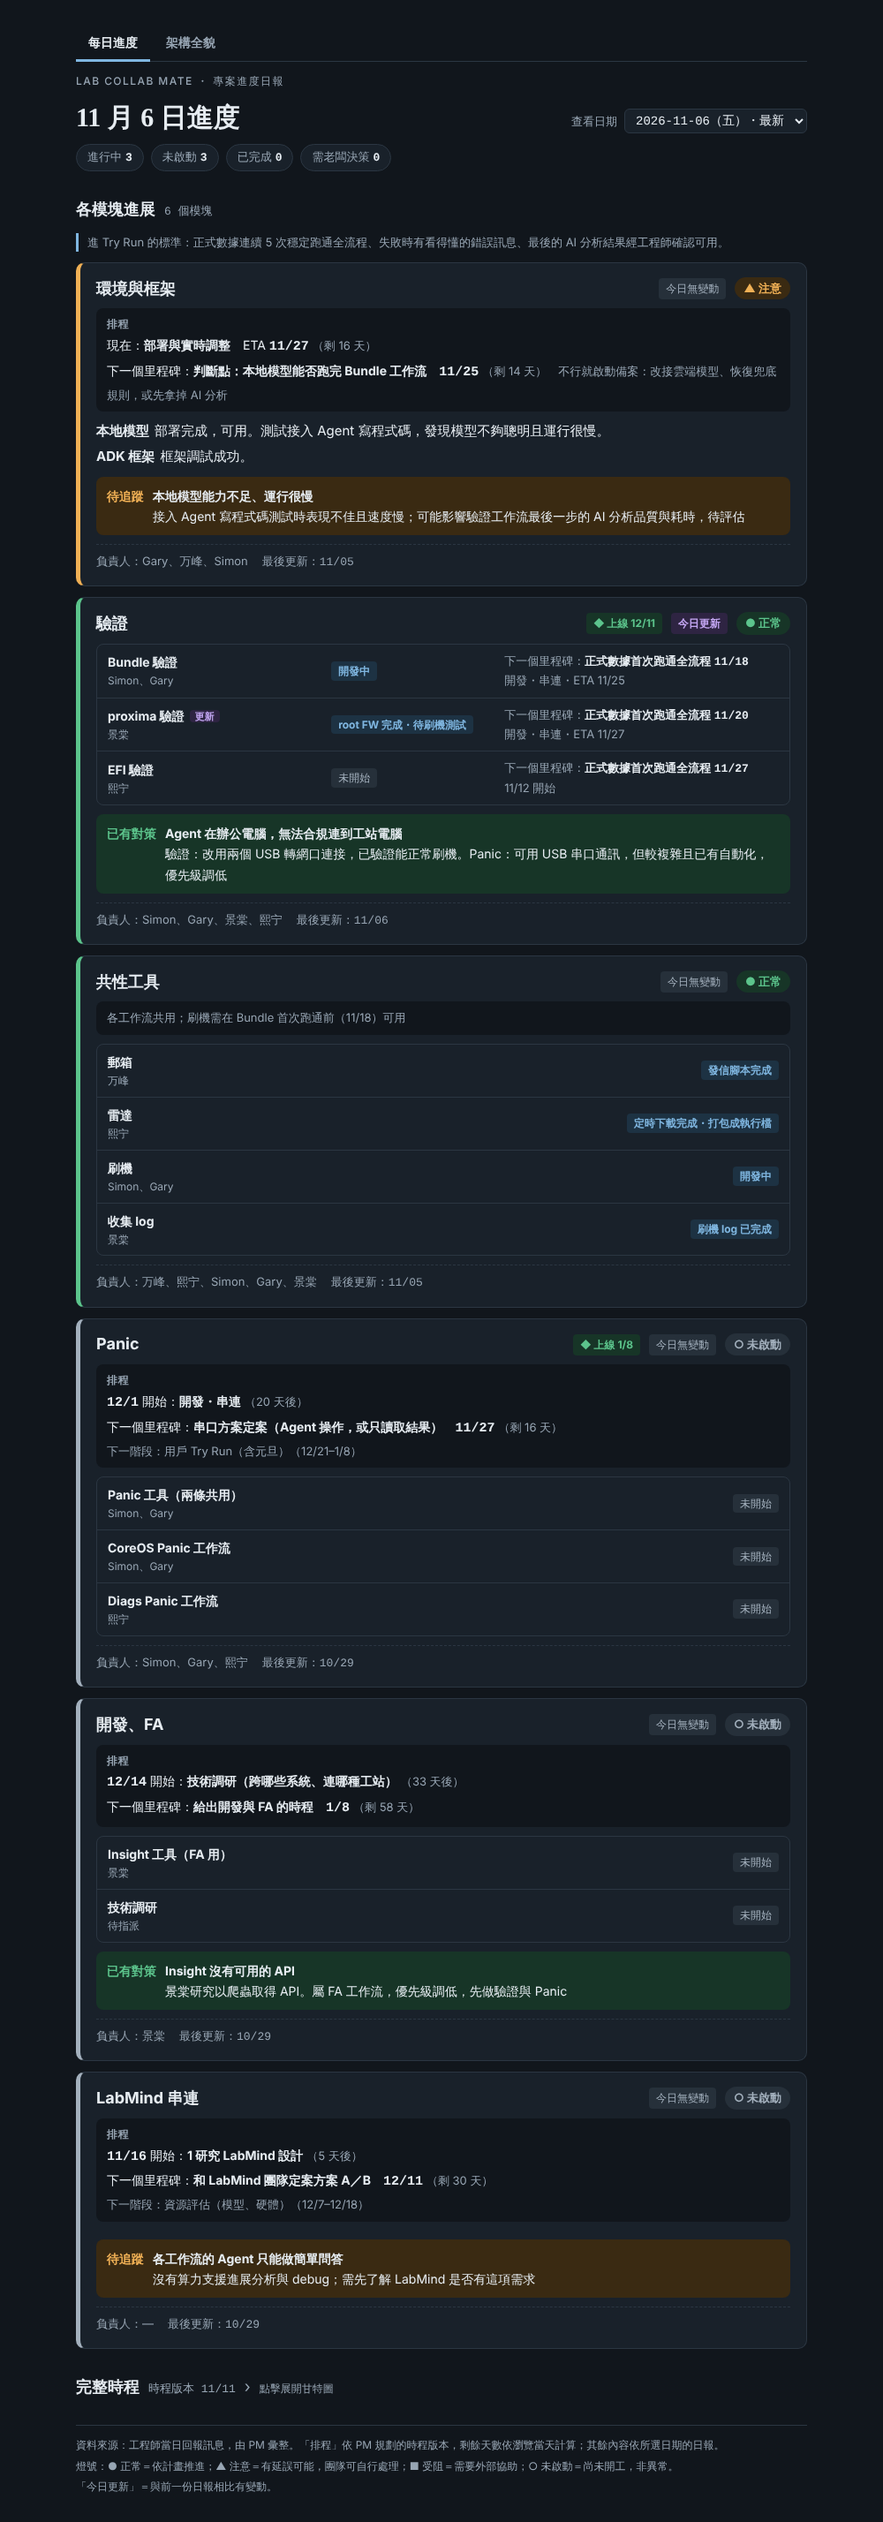
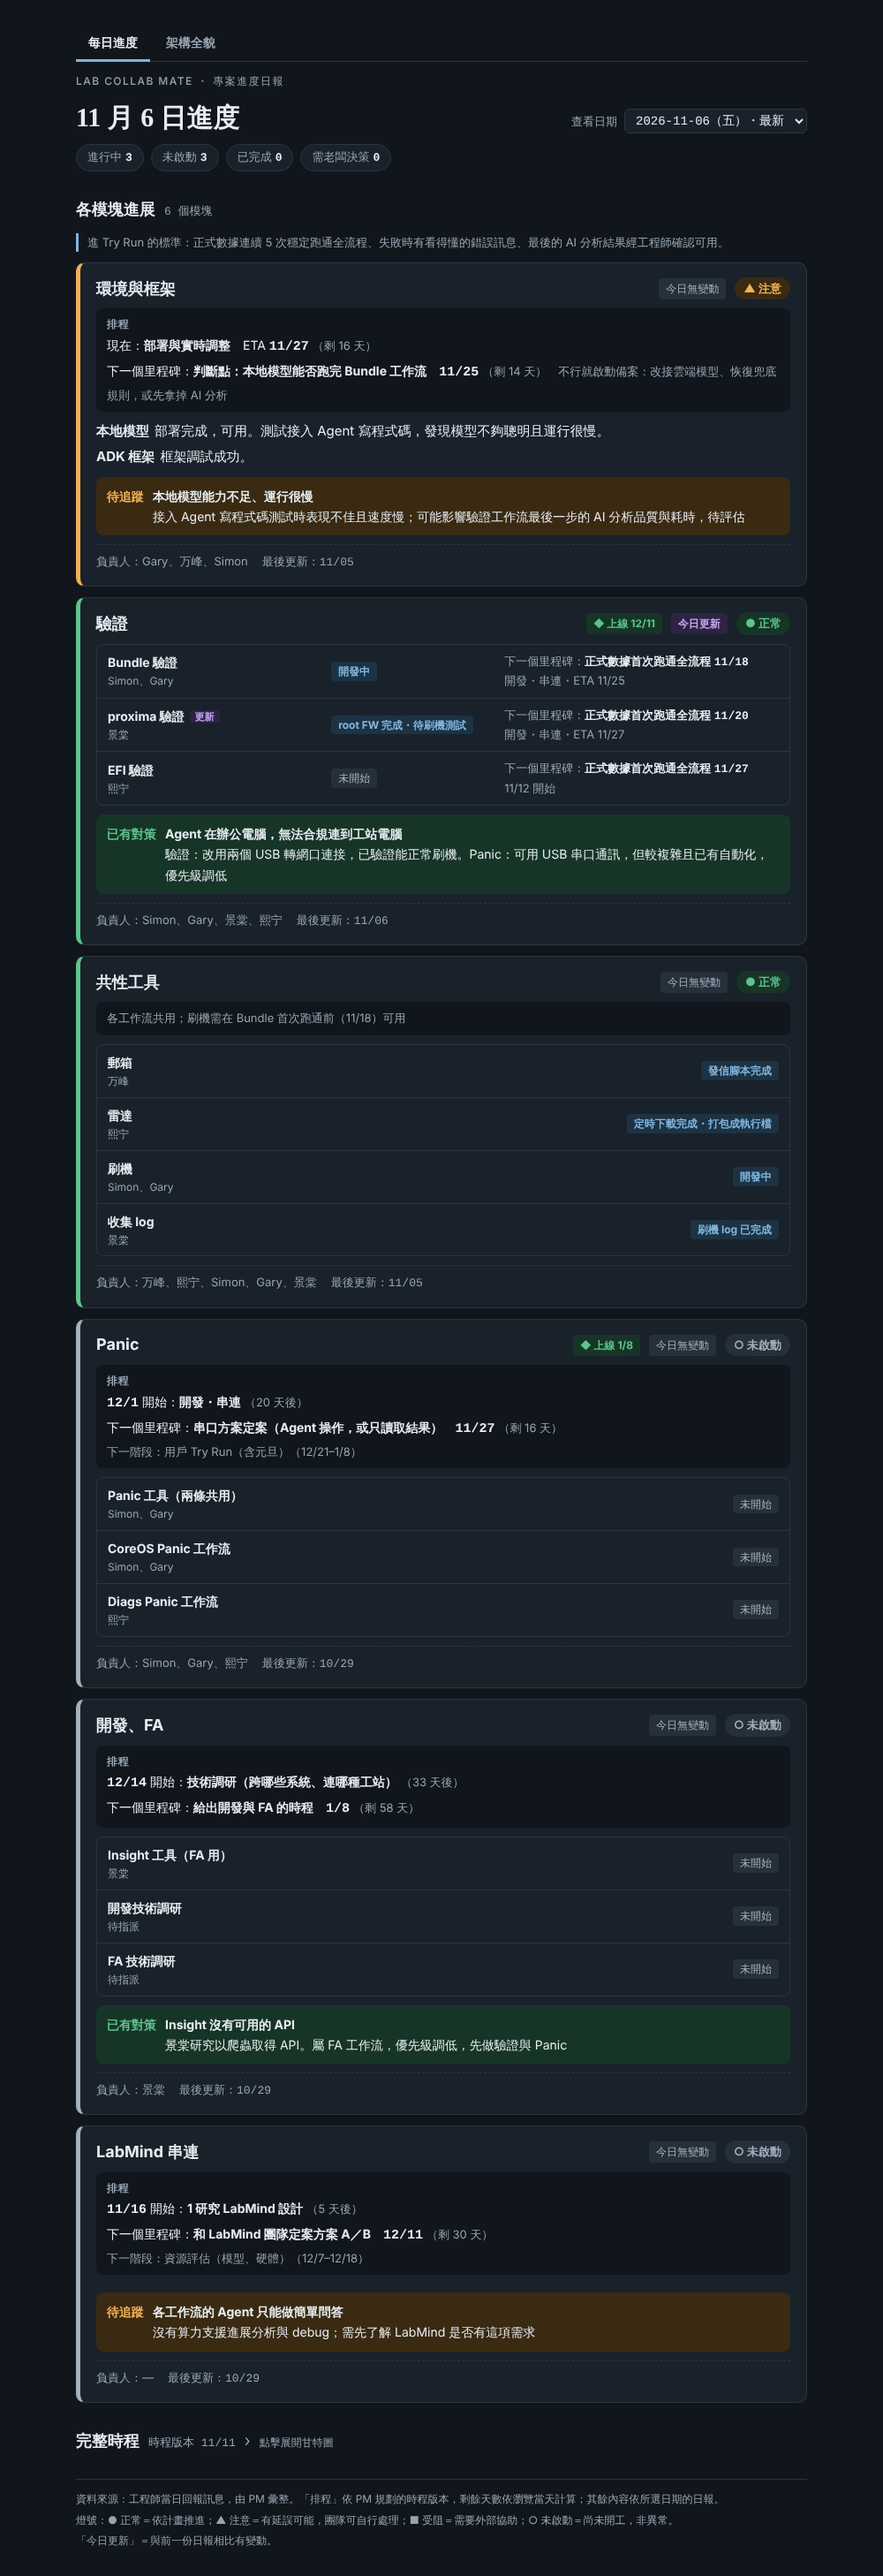
[2026-11-11_dashboard-schedule-and-arch-tab] 技術調研分成開發與 FA 兩列
Claude-Session: https://claude.ai/code/session_01HY2PekBDQgaxvznQLxGhAu

diff --git a/public/index.html b/public/index.html
@@ -416,7 +416,7 @@ const MODULES = [
   {name:"Panic", track:"Panic", rows:[{ws:3, item:"Panic", label:"Panic 工具（兩條共用）"},
     {item:"CoreOS Panic 工作流", owner:"Simon、Gary"}, {item:"Diags Panic 工作流", owner:"熙宁"}]},
   {name:"開發、FA", track:"開發、FA", rows:[{ws:3, item:"Insight", label:"Insight 工具（FA 用）"},
-    {item:"技術調研", owner:"待指派"}]},
+    {item:"開發技術調研", owner:"待指派"}, {item:"FA 技術調研", owner:"待指派"}]},
   {name:"LabMind 串連", track:"LabMind 串連", src:[{ws:7}]}
 ];
 const HOME = {1:"環境與框架", 2:"環境與框架", 3:"共性工具", 4:"驗證", 5:"驗證", 6:"驗證", 7:"LabMind 串連"};

diff --git a/work/2026-11-11_dashboard-schedule-and-arch-tab/STATUS.md b/work/2026-11-11_dashboard-schedule-and-arch-tab/STATUS.md
@@ -34,7 +34,7 @@
 | 11-11 | 進 Try Run 的標準：真機連續 5 次穩定跑通、失敗時有看得懂的錯誤訊息、AI 分析結果經工程師確認可用 |
 | 11-11 | 里程碑用詞：①「正式數據首次跑通全流程」②「正式數據連續 5 次穩定跑通全流程」；Try Run 標準同步改用「正式數據」 |
 | 11-11 | 每日進度去除重複：改成一個模塊一張卡（環境與框架、驗證、共性工具、Panic、開發與 FA、LabMind 串連），卡內合併排程（ETA、下一個里程碑）與當日進展；拿掉獨立的時程摘要卡、未啟動／已完成清單、工作流落地範圍 |
-| 11-11 | Panic 模塊：Panic 工具（Simon、Gary，兩條共用）、CoreOS Panic 工作流（Simon、Gary）、Diags Panic 工作流（熙宁）；開發、FA 模塊：Insight 工具（景棠）、技術調研（待指派）。排程放在模塊層級，不在每列重複 |
+| 11-11 | Panic 模塊：Panic 工具（Simon、Gary，兩條共用）、CoreOS Panic 工作流（Simon、Gary）、Diags Panic 工作流（熙宁）；開發、FA 模塊：Insight 工具（景棠）、開發技術調研（待指派）、FA 技術調研（待指派）。排程放在模塊層級，不在每列重複 |
 | 11-11 | 甘特圖改為可收合，預設收合；展開狀態記在各自瀏覽器 |
 | 11-11 | 只排工作日；原版 11/28、12/12、12/26 落在週末，已修正 |
 
@@ -80,6 +80,9 @@
 7. 架構分頁方案 B 的標題仍是「待確認池」，架構頁已決議改名「承接池」，要不要一起改？
 
 ## 過程紀錄（由新到舊）
+
+### 2026-11-11（第七段）
+- 使用者要求技術調研分成開發與 FA 兩列。
 
 ### 2026-11-11（第六段）
 - 使用者指定 Panic 各列負責人，並把開發、FA 改成 Insight 工具＋技術調研（待指派），拿掉四條 FA／開發工作流列。
